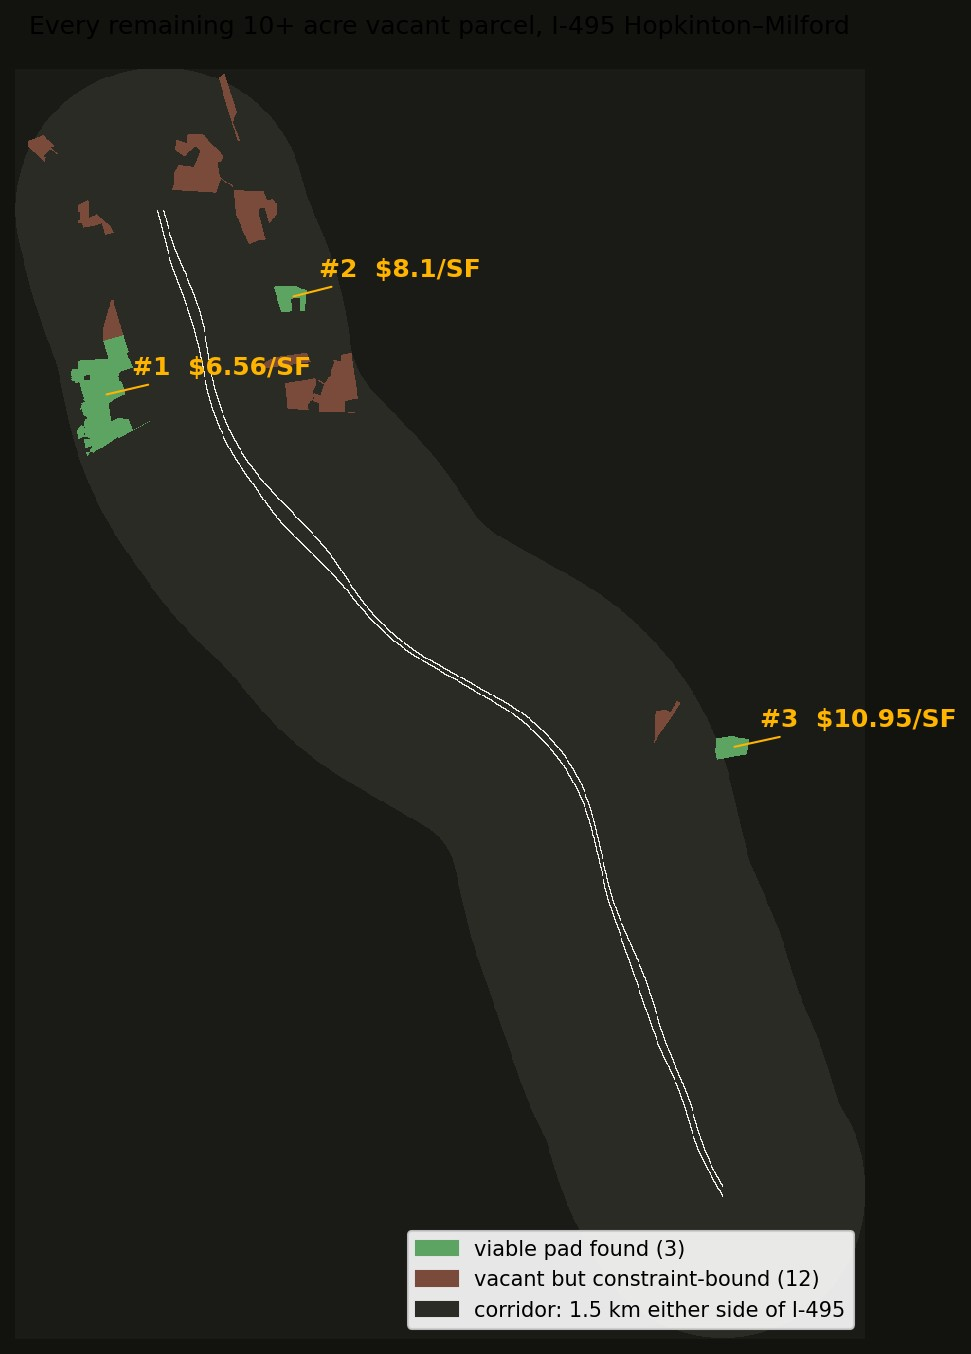
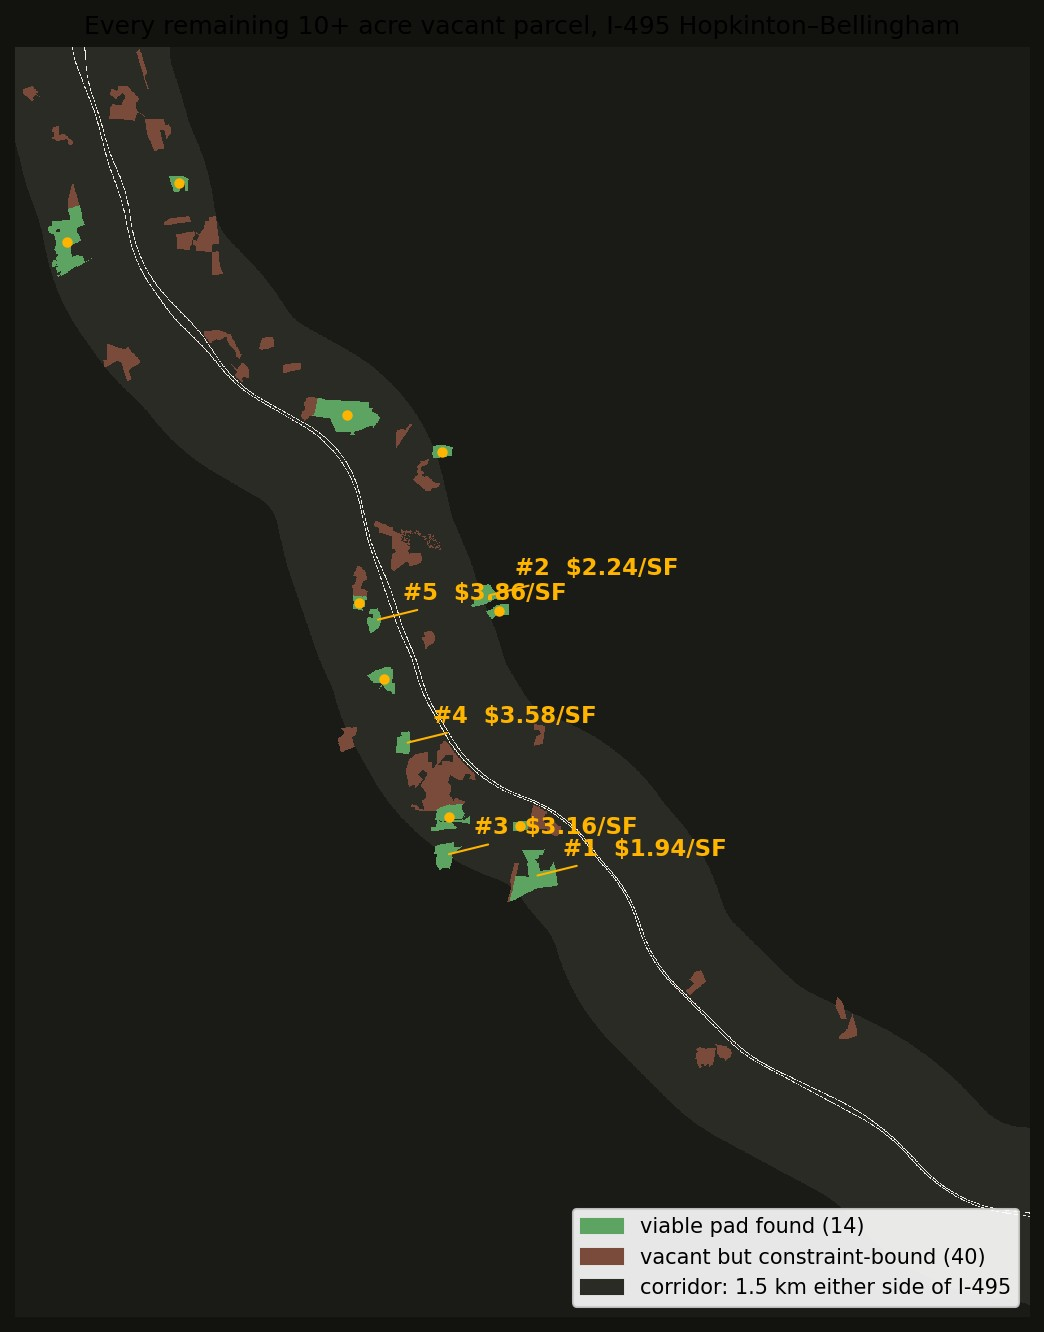
P04 extended through Bellingham: 54 parcels, 14 viable, Franklin leads at \.94/SF

diff --git a/p04.html b/p04.html
@@ -3,9 +3,9 @@
 <head>
 <meta charset="utf-8">
 <meta name="viewport" content="width=device-width, initial-scale=1">
-<title>Three Can Hold a Building — Lidar Corridor Screen, I-495</title>
+<title>Fourteen Can Hold a Building — Lidar Corridor Screen, I-495</title>
 <meta name="description" content="Every remaining 10+ acre vacant parcel on the I-495 Hopkinton–Milford corridor, screened and ranked by sitework cost from public lidar.">
-<meta property="og:title" content="Fifteen Parcels. Three Can Hold a Building.">
+<meta property="og:title" content="Fifty-Four Parcels. Fourteen Can Hold a Building.">
 <meta property="og:description" content="A 10 km corridor screen: which vacant I-495 parcels can actually take a building, and what the dirt costs.">
 <meta property="og:type" content="website">
 <meta property="og:image" content="https://mapzimus.github.io/ground-truth/assets/p04_corridor_map.jpg">
@@ -110,27 +110,27 @@ figure img{cursor:zoom-in}
 <nav class="projnav"><div class="wrap"><a class="brand" href="index.html">GROUND TRUTH</a><span class="links"><a href="devens.html">01 · Devens</a><a href="middleboro.html">02 · Middleborough</a><a href="hopkinton.html">03 · Hopkinton</a><a class="on" href="p04.html">04 · Corridor</a></span></div></nav>
 <header>
   <div class="wrap">
-    <div class="kicker">Lidar corridor screen · I-495, Hopkinton–Milford</div>
-    <h1>Fifteen parcels left.<br><span class="under">Three can hold a building.</span></h1>
+    <div class="kicker">Lidar corridor screen · I-495, Hopkinton–Bellingham</div>
+    <h1>Fifty-four parcels left.<br><span class="under">Fourteen can hold a building.</span></h1>
     <p class="lede">Projects 01–03 each studied one site in depth. This one asks the
     question that comes first: <i>which sites are even worth studying?</i> I took a
-    10&nbsp;km stretch of the I-495 belt, pulled every tax parcel within 1.5&nbsp;km of
-    the highway across five towns, and ran the same terrain screens on everything vacant
+    20&nbsp;km stretch of the I-495 belt, Hopkinton down through Bellingham, pulled every
+    tax parcel within 1.5&nbsp;km of the highway across nine towns, and ran the same terrain screens on everything vacant
     and 10+ acres. The shortlist turns out to be short.</p>
     <img class="locus" src="assets/hopkinton_locus.png" alt="Corridor location in Massachusetts">
     <p class="whofor">If you're looking at wooded land in Massachusetts, this is the kind
     of homework you can do before an offer — happy to walk through any of it.
     <a href="mailto:mhowe.gis@gmail.com">mhowe.gis@gmail.com</a></p>
-    <div class="bignum">3 of 15
+    <div class="bignum">14 of 54
       <small>vacant 10+ acre parcels in the corridor can fit a contiguous building pad
-      once wetlands, setbacks and slopes are screened. The other twelve are
+      once wetlands, setbacks and slopes are screened. The other forty are
       constraint-bound.</small>
     </div>
     <div class="stats">
-      <div class="stat"><div class="v">11,755</div><div class="l">tax parcels examined across five towns</div></div>
-      <div class="stat"><div class="v">54</div><div class="l">parcels of 10+ acres left in the corridor, of any kind</div></div>
-      <div class="stat"><div class="v">15</div><div class="l">of those are vacant or forest land</div></div>
-      <div class="stat hot"><div class="v">$6.56/SF</div><div class="l">best-in-corridor sitework, 110 ac on Pine Island Road</div></div>
+      <div class="stat"><div class="v">49,986</div><div class="l">tax parcels examined across nine towns</div></div>
+      <div class="stat"><div class="v">20 km</div><div class="l">of I-495, Hopkinton to the Franklin line</div></div>
+      <div class="stat"><div class="v">54</div><div class="l">vacant or forest parcels of 10+ acres</div></div>
+      <div class="stat hot"><div class="v">$1.94/SF</div><div class="l">best-in-corridor sitework, 87 ac in Franklin</div></div>
     </div>
   </div>
 </header>
@@ -141,13 +141,14 @@ figure img{cursor:zoom-in}
     <h2>Everything that's left</h2>
     <p class="prose">Green parcels passed the screen — a contiguous pad (16.3 or 7.4
     acres) fits with at least 70% of it clear of wetlands, stream setbacks and steep
-    ground. Brown parcels are vacant but couldn't fit one. Worth noticing: the southern
-    half of the corridor has <b>no</b> vacant 10+ acre parcels at all. This part of the
-    belt is close to built out.</p>
+    ground. Brown parcels are vacant but couldn't fit one. The
+    extension south changed the picture: the rolling Hopkinton end is where dirt costs
+    the most, and the flatter Bellingham–Franklin end is where the affordable pads
+    hide — the top five are all south of Milford.</p>
     <figure>
       <img src="assets/p04_corridor_map.jpg" alt="Corridor map of remaining vacant parcels" loading="lazy">
       <figcaption>Every remaining 10+ acre vacant parcel within 1.5 km of I-495,
-      Hopkinton–Milford stretch. Labels show best-pad sitework $/SF.</figcaption>
+      Hopkinton–Bellingham stretch. Labels mark the five cheapest pads; dots are the other nine viable parcels.</figcaption>
     </figure>
   </div>
 </section>
@@ -164,17 +165,56 @@ figure img{cursor:zoom-in}
     <table>
       <thead><tr><th>#</th><th>Parcel</th><th>Town</th><th>Acres</th><th>Constrained</th><th>Best pad</th><th>Sitework $/SF</th></tr></thead>
       <tbody>
-        <tr class="ours"><td>1</td><td>0 Pine Island Road</td><td>Hopkinton</td><td>110.2</td><td>45%</td><td>16.3 ac pad · 233,019 yd³ ≈ $4.66M</td><td>$6.56</td></tr>
-        <tr><td>2</td><td>0 Lumber Street</td><td>Hopkinton</td><td>16.5</td><td>32%</td><td>7.4 ac pad · 129,444 yd³ ≈ $2.59M</td><td>$8.10</td></tr>
-        <tr><td>3</td><td>Parcel M_202617_878687</td><td>Holliston</td><td>17.3</td><td>47%</td><td>7.4 ac pad · 175,079 yd³ ≈ $3.50M</td><td>$10.95</td></tr>
+        <tr class="ours"><td>1</td><td>0  West Central St</td><td>Franklin</td><td>87.1</td><td>59%</td><td>7.4 ac pad · 31,047 yd³ ≈ $0.62M</td><td>$1.94</td></tr>
+        <tr><td>2</td><td>23 R Tulip Way</td><td>Medway</td><td>24.7</td><td>46%</td><td>7.4 ac pad · 35,803 yd³ ≈ $0.72M</td><td>$2.24</td></tr>
+        <tr><td>3</td><td>0  High St</td><td>Bellingham</td><td>33.7</td><td>61%</td><td>7.4 ac pad · 50,468 yd³ ≈ $1.01M</td><td>$3.16</td></tr>
+        <tr><td>4</td><td>0  Hartford Av</td><td>Bellingham</td><td>20.8</td><td>53%</td><td>7.4 ac pad · 57,217 yd³ ≈ $1.14M</td><td>$3.58</td></tr>
+        <tr><td>5</td><td>4 Technology Dr</td><td>Milford</td><td>18.5</td><td>26%</td><td>7.4 ac pad · 61,756 yd³ ≈ $1.24M</td><td>$3.86</td></tr>
+        <tr><td>6</td><td>0  High St</td><td>Bellingham</td><td>47.8</td><td>29%</td><td>16.3 ac pad · 144,167 yd³ ≈ $2.88M</td><td>$4.06</td></tr>
+        <tr><td>7</td><td>0  Hixon St</td><td>Bellingham</td><td>32.1</td><td>39%</td><td>7.4 ac pad · 67,733 yd³ ≈ $1.35M</td><td>$4.24</td></tr>
+        <tr><td>8</td><td>Maple St</td><td>Milford</td><td>12.5</td><td>22%</td><td>7.4 ac pad · 81,825 yd³ ≈ $1.64M</td><td>$5.12</td></tr>
+        <tr><td>9</td><td>East Main St</td><td>Milford</td><td>119.2</td><td>76%</td><td>7.4 ac pad · 93,991 yd³ ≈ $1.88M</td><td>$5.88</td></tr>
+        <tr><td>10</td><td>0 Pine Island Road</td><td>Hopkinton</td><td>110.2</td><td>45%</td><td>16.3 ac pad · 233,019 yd³ ≈ $4.66M</td><td>$6.56</td></tr>
+        <tr><td>11</td><td>0  Farm St</td><td>Bellingham</td><td>16.3</td><td>8%</td><td>7.4 ac pad · 110,234 yd³ ≈ $2.20M</td><td>$6.90</td></tr>
+        <tr><td>12</td><td>0 Lumber Street</td><td>Hopkinton</td><td>16.5</td><td>32%</td><td>7.4 ac pad · 129,444 yd³ ≈ $2.59M</td><td>$8.10</td></tr>
+        <tr><td>13</td><td>306  Maple St</td><td>Bellingham</td><td>11.5</td><td>24%</td><td>7.4 ac pad · 141,798 yd³ ≈ $2.84M</td><td>$8.87</td></tr>
+        <tr><td>14</td><td>Parcel M_202617_878687</td><td>Holliston</td><td>17.3</td><td>47%</td><td>7.4 ac pad · 175,079 yd³ ≈ $3.50M</td><td>$10.95</td></tr>
         <tr><td>·</td><td>Off Lumber Street</td><td>Hopkinton</td><td>11.7</td><td>50%</td><td>no contiguous pad fits the screens</td><td>—</td></tr>
         <tr><td>·</td><td>0 Lumber Street</td><td>Hopkinton</td><td>20.4</td><td>76%</td><td>no contiguous pad fits the screens</td><td>—</td></tr>
         <tr><td>·</td><td>253 Lumber Street</td><td>Hopkinton</td><td>14.3</td><td>71%</td><td>no contiguous pad fits the screens</td><td>—</td></tr>
         <tr><td>·</td><td>0 Granite Street</td><td>Hopkinton</td><td>29.3</td><td>71%</td><td>no contiguous pad fits the screens</td><td>—</td></tr>
         <tr><td>·</td><td>Parcel M_201898_878945</td><td>Holliston</td><td>10.4</td><td>38%</td><td>no contiguous pad fits the screens</td><td>—</td></tr>
+        <tr><td>·</td><td>Rear Purchase St</td><td>Milford</td><td>12.6</td><td>86%</td><td>no contiguous pad fits the screens</td><td>—</td></tr>
+        <tr><td>·</td><td>Silver Hill Rd</td><td>Milford</td><td>34.6</td><td>85%</td><td>no contiguous pad fits the screens</td><td>—</td></tr>
+        <tr><td>·</td><td>Rear Haven St</td><td>Milford</td><td>15.3</td><td>44%</td><td>no contiguous pad fits the screens</td><td>—</td></tr>
+        <tr><td>·</td><td>400 Deer St</td><td>Milford</td><td>25.0</td><td>57%</td><td>no contiguous pad fits the screens</td><td>—</td></tr>
         <tr><td>·</td><td>10 Country Way</td><td>Hopkinton</td><td>10.4</td><td>52%</td><td>no contiguous pad fits the screens</td><td>—</td></tr>
+        <tr><td>·</td><td>80 Deer St</td><td>Milford</td><td>13.3</td><td>99%</td><td>no contiguous pad fits the screens</td><td>—</td></tr>
+        <tr><td>·</td><td>Rear Cedar St</td><td>Milford</td><td>11.5</td><td>84%</td><td>no contiguous pad fits the screens</td><td>—</td></tr>
+        <tr><td>·</td><td>Rear Cedar St</td><td>Milford</td><td>10.4</td><td>24%</td><td>no contiguous pad fits the screens</td><td>—</td></tr>
+        <tr><td>·</td><td>I 495</td><td>Milford</td><td>18.5</td><td>100%</td><td>no contiguous pad fits the screens</td><td>—</td></tr>
+        <tr><td>·</td><td>Maple St</td><td>Milford</td><td>24.0</td><td>74%</td><td>no contiguous pad fits the screens</td><td>—</td></tr>
+        <tr><td>·</td><td>Off Medway Rd</td><td>Milford</td><td>12.3</td><td>100%</td><td>no contiguous pad fits the screens</td><td>—</td></tr>
+        <tr><td>·</td><td>0  Hartford Av</td><td>Bellingham</td><td>24.1</td><td>64%</td><td>no contiguous pad fits the screens</td><td>—</td></tr>
         <tr><td>·</td><td>Downey Street</td><td>Hopkinton</td><td>11.9</td><td>27%</td><td>no contiguous pad fits the screens</td><td>—</td></tr>
+        <tr><td>·</td><td>0  Hartford Av</td><td>Bellingham</td><td>44.5</td><td>72%</td><td>no contiguous pad fits the screens</td><td>—</td></tr>
+        <tr><td>·</td><td>187  Farm St</td><td>Bellingham</td><td>11.9</td><td>95%</td><td>no contiguous pad fits the screens</td><td>—</td></tr>
+        <tr><td>·</td><td>0  North Main St</td><td>Bellingham</td><td>31.6</td><td>90%</td><td>no contiguous pad fits the screens</td><td>—</td></tr>
+        <tr><td>·</td><td>0  Maple St</td><td>Bellingham</td><td>106.1</td><td>69%</td><td>no contiguous pad fits the screens</td><td>—</td></tr>
+        <tr><td>·</td><td>0  Maple St</td><td>Bellingham</td><td>10.2</td><td>35%</td><td>no contiguous pad fits the screens</td><td>—</td></tr>
+        <tr><td>·</td><td>0  Oak St</td><td>Bellingham</td><td>12.1</td><td>46%</td><td>no contiguous pad fits the screens</td><td>—</td></tr>
+        <tr><td>·</td><td>36 R Alder St</td><td>Medway</td><td>35.6</td><td>100%</td><td>no contiguous pad fits the screens</td><td>—</td></tr>
+        <tr><td>·</td><td>0  Oak Grove</td><td>Medway</td><td>13.0</td><td>44%</td><td>no contiguous pad fits the screens</td><td>—</td></tr>
+        <tr><td>·</td><td>26  Alder St</td><td>Medway</td><td>11.3</td><td>82%</td><td>no contiguous pad fits the screens</td><td>—</td></tr>
+        <tr><td>·</td><td>0 R Stone End Rd</td><td>Medway</td><td>25.3</td><td>84%</td><td>no contiguous pad fits the screens</td><td>—</td></tr>
+        <tr><td>·</td><td>0  Mine Brook</td><td>Franklin</td><td>15.0</td><td>51%</td><td>no contiguous pad fits the screens</td><td>—</td></tr>
+        <tr><td>·</td><td>0  Mine Brook</td><td>Franklin</td><td>23.0</td><td>64%</td><td>no contiguous pad fits the screens</td><td>—</td></tr>
         <tr><td>·</td><td>0 Old Town Road</td><td>Hopkinton</td><td>13.2</td><td>61%</td><td>no contiguous pad fits the screens</td><td>—</td></tr>
+        <tr><td>·</td><td>300  Fisher St</td><td>Franklin</td><td>18.3</td><td>82%</td><td>no contiguous pad fits the screens</td><td>—</td></tr>
+        <tr><td>·</td><td>0  King St</td><td>Franklin</td><td>24.4</td><td>51%</td><td>no contiguous pad fits the screens</td><td>—</td></tr>
+        <tr><td>·</td><td>555  King St</td><td>Franklin</td><td>12.6</td><td>55%</td><td>no contiguous pad fits the screens</td><td>—</td></tr>
+        <tr><td>·</td><td>0  Summer St</td><td>Franklin</td><td>10.4</td><td>33%</td><td>no contiguous pad fits the screens</td><td>—</td></tr>
+        <tr><td>·</td><td>0  Uncas Pond</td><td>Franklin</td><td>15.6</td><td>14%</td><td>no contiguous pad fits the screens</td><td>—</td></tr>
         <tr><td>·</td><td>0 Lumber Street</td><td>Hopkinton</td><td>27.8</td><td>74%</td><td>no contiguous pad fits the screens</td><td>—</td></tr>
         <tr><td>·</td><td>0 Lumber Street</td><td>Hopkinton</td><td>27.5</td><td>73%</td><td>no contiguous pad fits the screens</td><td>—</td></tr>
         <tr><td>·</td><td>0 West Main Street</td><td>Hopkinton</td><td>10.1</td><td>62%</td><td>no contiguous pad fits the screens</td><td>—</td></tr>
@@ -182,12 +222,12 @@ figure img{cursor:zoom-in}
       </tbody>
     </table>
     </div>
-    <p class="prose" style="margin-top:20px">The three viable parcels tell three
-    different stories. Pine Island Road is the obvious one — 110 acres, room to move the
-    pad around, and the lowest dirt cost. The 16.5-acre Lumber Street parcel is small but
-    efficient. The Holliston parcel fits a pad but pays for it in grading. And the
-    twelve brown rows aren't worthless — they're just not warehouse sites; several might
-    take a smaller building or stay as mitigation land.</p>
+    <p class="prose" style="margin-top:20px">A few things stand out. The 87-acre Franklin parcel at $1.94/SF is a quarter the
+    dirt cost of anything in Hopkinton. Only two parcels in 20 km can take the full
+    16.3-acre warehouse pad — 48 acres on High Street in Bellingham ($4.06/SF) and Pine
+    Island Road in Hopkinton ($6.56/SF); everything else maxes out at the 7.4-acre size.
+    And the forty brown rows aren't worthless — they're just not warehouse sites;
+    several might take a smaller building or stay as mitigation land.</p>
   </div>
 </section>
 
@@ -197,9 +237,10 @@ figure img{cursor:zoom-in}
     <h2>The numbers are checkable</h2>
     <ol class="method">
       <li><b>Parcels</b> — MassGIS L3 tax parcels joined to assessor records for
-        Hopkinton, Milford, Holliston, Hopedale and Upton; kept parcels ≥10 acres,
+        the corridor towns; kept parcels ≥10 acres,
         classified vacant / forest / developable land, with under $50k of building
-        value, within 1.5 km of the MassDOT I-495 centerline.</li>
+        value, within 1.5 km of the MassDOT I-495 centerline. Nine towns: Hopkinton,
+        Holliston, Milford, Hopedale, Upton, Mendon, Medway, Bellingham, Franklin.</li>
       <li><b>Terrain</b> — the state's 2021 bare-earth lidar DEM, resampled to 1 m. On
         Projects 01–03 my own point-cloud models matched this surface to 2.0–7.6 cm
         RMSE, which is why it's trustworthy enough for screening. Wetlands and streams:

diff --git a/index.html b/index.html
@@ -109,13 +109,13 @@ footer a{color:var(--amber)}
     <a class="card" href="p04.html">
       <img src="assets/p04_corridor_map.jpg" alt="Corridor screen map">
       <div class="body">
-        <div class="num">PROJECT 04 · I-495 CORRIDOR, 5 TOWNS</div>
-        <h2>Fifteen parcels. Three can hold a building.</h2>
+        <div class="num">PROJECT 04 · I-495 CORRIDOR, 9 TOWNS</div>
+        <h2>Fifty-four parcels. Fourteen can hold a building.</h2>
         <p>The question before any single-site study: which sites are worth studying?
-        Every vacant 10+ acre parcel within 1.5 km of a 10 km I-495 stretch, screened
-        and ranked by sitework cost. The southern half of the corridor has none left
-        at all.</p>
-        <div class="stat">Best in corridor: 110 ac, Pine Island Road — $6.56/SF sitework</div>
+        Every vacant 10+ acre parcel within 1.5 km of 20 km of I-495, Hopkinton through
+        Bellingham, screened and ranked by sitework cost. The affordable dirt turns out
+        to be at the southern end.</p>
+        <div class="stat">Best in corridor: 87 ac in Franklin — $1.94/SF sitework</div>
       </div>
     </a>
   </div>
